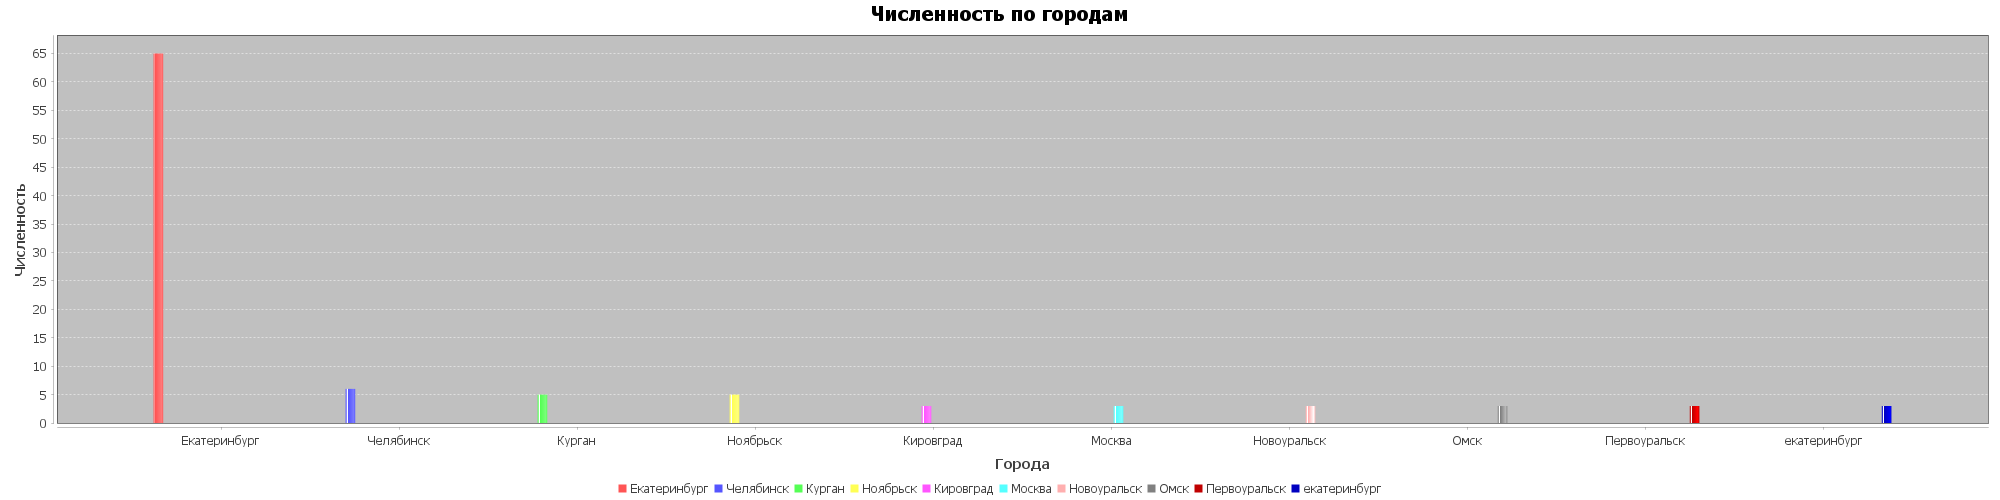
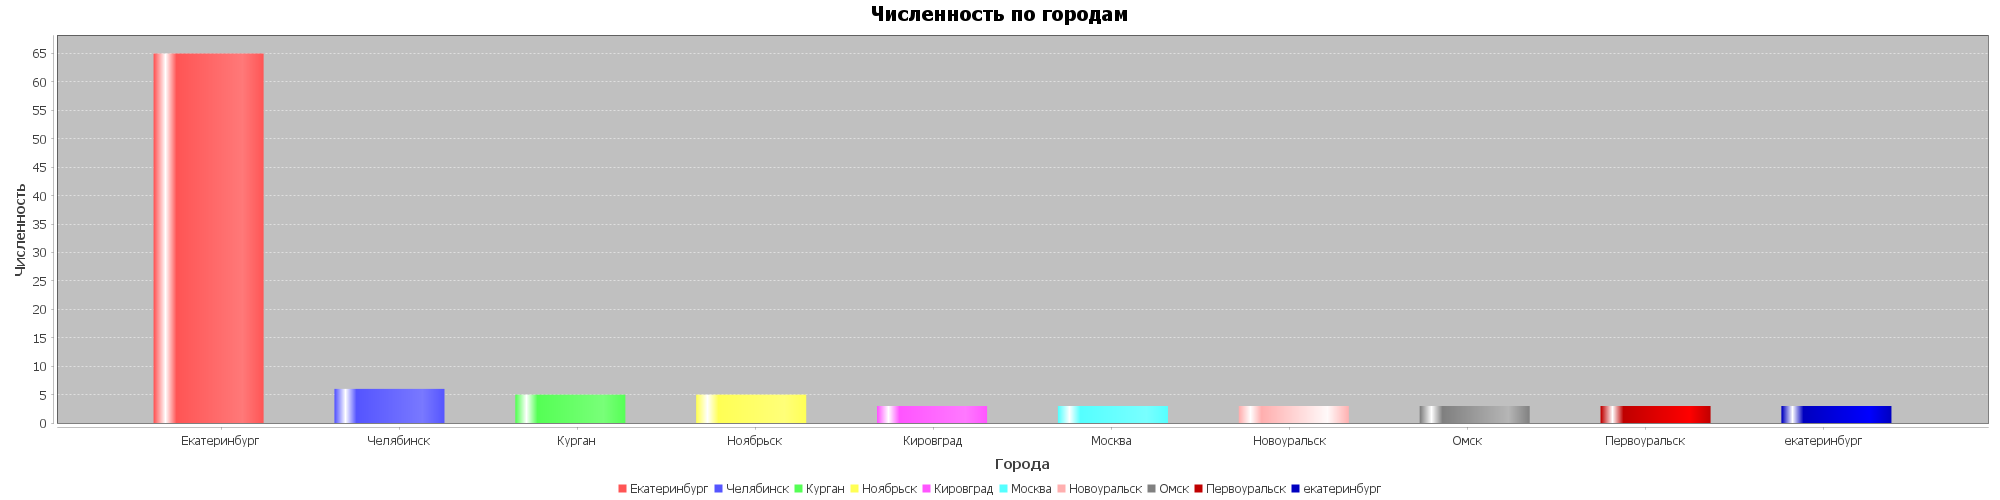
New chart added

diff --git a/CourseParserMaven/src/main/java/ChartCreator/ChartCreator.java b/CourseParserMaven/src/main/java/ChartCreator/ChartCreator.java
@@ -83,6 +83,8 @@ public class ChartCreator {
                     "Численность",
                     dataset);
             chart.getLegend().setHeight(1000);
+            BarRenderer renderer = (BarRenderer) chart.getCategoryPlot().getRenderer();
+            renderer.setItemMargin(-5);
             createPNGChart(chart, "towns.png", 2000, 500);
         }
         catch (Exception e){
@@ -301,6 +303,56 @@ public class ChartCreator {
             BarRenderer renderer = (BarRenderer) chart.getCategoryPlot().getRenderer();
             renderer.setItemMargin(-10);
             createPNGChart(chart, "groupPerformance.png", 2000, 1000);
+        }
+        catch (Exception e){
+            System.out.println(e.getMessage());
+            for(var trace: e.getStackTrace()){
+                System.out.println(trace);
+            }
+            throw new RuntimeException();
+        }
+    }
+
+    public static void homeworkExercisePerformance(Connection co){
+        try{
+            var dataset = new DefaultCategoryDataset();
+            var moduleIdSt = co.createStatement();
+            var moduleIdRs = moduleIdSt.executeQuery("SELECT module_id, exercise_score, homework_score, name FROM modulesInfo");
+            while(moduleIdRs.next()){
+                var moduleId = moduleIdRs.getInt("module_id");
+                var moduleName = moduleIdRs.getString("name");
+                var maxHomeworkScore = moduleIdRs.getInt("homework_score");
+                var maxExerciseScore = moduleIdRs.getInt("exercise_score");
+
+                double sumHomeworkPerformance = 0;
+                double sumExercisePerformance = 0;
+
+                var count = 0;
+
+                var scoresSt = co.createStatement();
+                var scoresRs = scoresSt.executeQuery("SELECT exercise_score, homework_score FROM modulesScoresInfo " +
+                        "WHERE module_id = " + moduleId);
+                while(scoresRs.next()){
+                    sumHomeworkPerformance += (double) scoresRs.getInt("homework_score") / maxHomeworkScore * 100;
+                    sumExercisePerformance += (double) scoresRs.getInt("exercise_score") / maxExerciseScore * 100;
+                    count += 1;
+                }
+                scoresRs.close();
+                scoresSt.close();
+
+                var homeworkPerformance = sumHomeworkPerformance / count;
+                var exercisePerformance = sumExercisePerformance / count;
+
+                dataset.addValue(homeworkPerformance, "Домашняя работа", moduleName);
+                dataset.addValue(exercisePerformance,"Упражнение", moduleName);
+            }
+
+            var chart = ChartFactory.createBarChart("Успеваемость студентов по упражнениям/практикам",
+                    "Модуль",
+                    "Успеваемость",
+                    dataset);
+
+            createPNGChart(chart, "homeworkExercisePerformance.png", 2000, 1000);
         }
         catch (Exception e){
             System.out.println(e.getMessage());

diff --git a/CourseParserMaven/src/main/java/Main.java b/CourseParserMaven/src/main/java/Main.java
@@ -11,11 +11,14 @@ import java.util.Scanner;
 public class Main {
     public static void main(String[] args) throws IOException, SQLException {
         var sc = new Scanner(System.in);
-        System.out.println("Выберите комманду: \n" +
-                "1) наполнить БАЗУ \n" +
-                "2) создать графики");
+        System.out.println("Выберите команду: \n" +
+                "1) Создать новую базу данных \n" +
+                "2) Создать графики по существующей базе");
         var mode = sc.nextLine();
         if(mode.equals("1")){
+
+            System.out.print("Введите название .csv файла: ");
+            var csvFileName = sc.nextLine();
             System.out.print("Введите название базы данных: ");
             var dbName = sc.nextLine();
             System.out.print("Введите id: ");
@@ -25,7 +28,7 @@ public class Main {
             var vkParser = new VkConnector(id, token);
             var CSParser = new CourseSheetParser(vkParser);
             var students = CSParser.parseCourseSheet("CSHARP",
-                    "src/main/resources/basicprogramming_3.csv");
+                    csvFileName);
             var course = students.get(0).AssignedCourseScores.Course;
             //System.out.println(course.getFullInfo());
             var sqlFiller = new SQLCourseFiller(dbName);
@@ -46,7 +49,10 @@ public class Main {
             ChartCreator.exerciseHomeWorkChart(co);
             ChartCreator.performanceChartByType(co, "У1");
             ChartCreator.performanceChartByType(co, "У2");
+            ChartCreator.homeworkExercisePerformance(co);
         }
 
     }
+
+
 }
